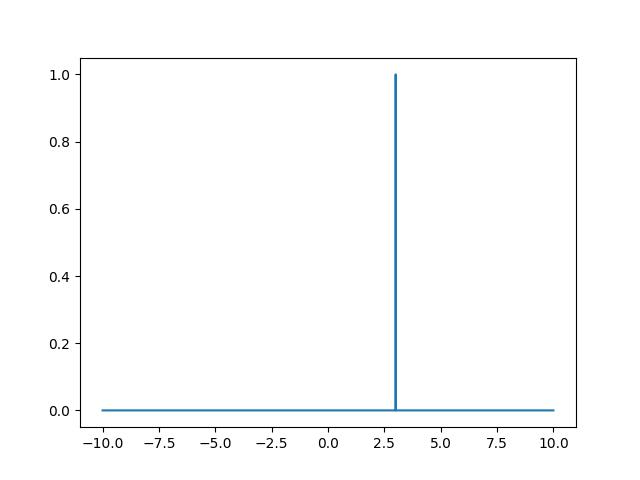
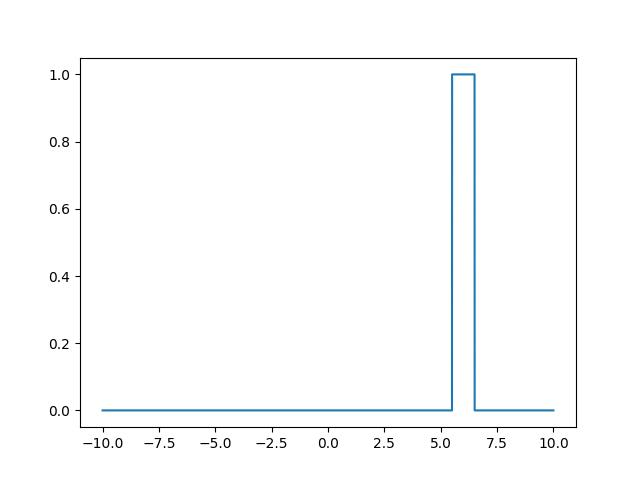
Trying to upload final project again

Changed region(s): [[0.6875, 0.125, 0.75, 0.875], [0.5938, 0.1562, 0.625, 0.8438]]

diff --git a/Main.py b/Main.py
@@ -15,7 +15,7 @@ CreatePlot(x,psi_dens,"images/Psi_Dens.jpg")
 PSI,PSI_dens,PSI_real,PSI_imag = CreateCNTimeEvol(x,t,psi_0,V)
 
 print(PSI_dens.shape)
-CreatePlot(x,PSI_dens[:,1000],"images/Psi_Dens_Evolved.jpg")
+CreatePlot(x,PSI_dens[:,4000],"images/Psi_Dens_Evolved.jpg")
 
 
 
